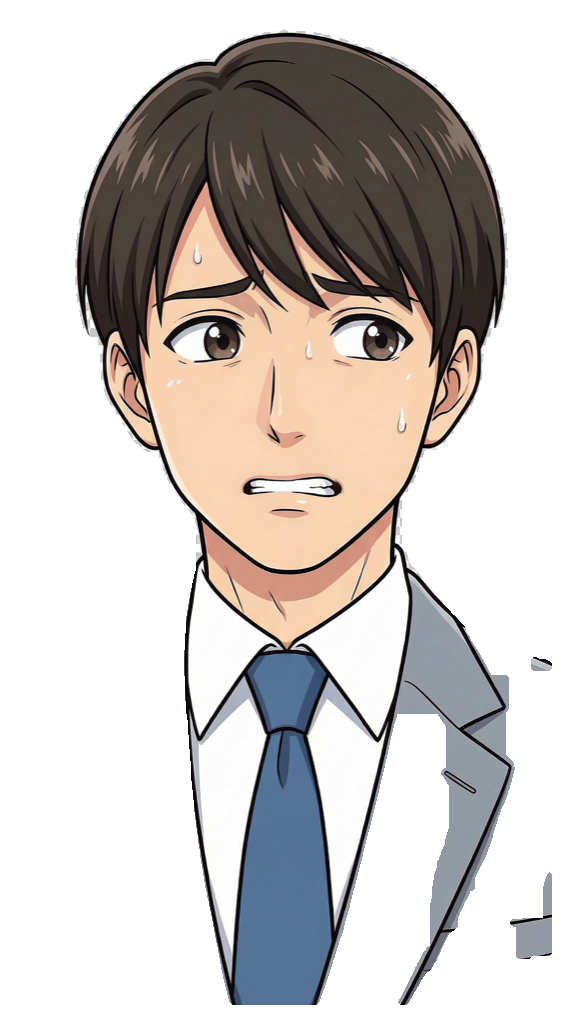
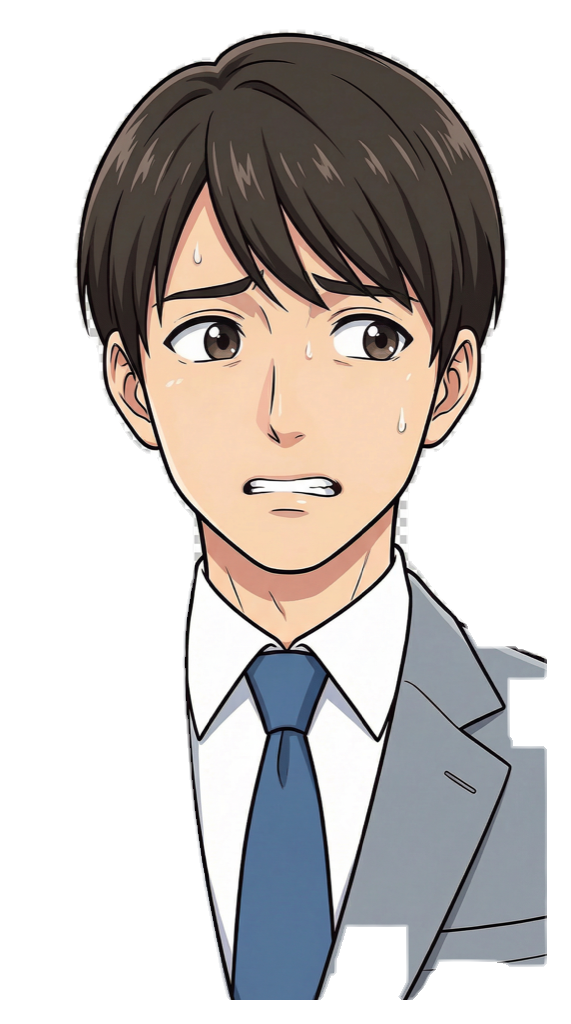
修正: ソフトアルファマスクでエッジを滑らかに（ハロ・ギザギザ解消）
バイナリマスクからガウシアンぼかし+穴埋め+ソフトエッジに変更

diff --git a/index.html b/index.html
@@ -2989,7 +2989,7 @@ var NovelEngine = {
         var src = folder + line.speaker + '_' + line.expr + '.png';
         if (!self._imageCache[src]) {
           var img = new Image();
-          img.src = src + '?v=7';
+          img.src = src + '?v=8';
           self._imageCache[src] = img;
         }
       }
@@ -3076,7 +3076,7 @@ var NovelEngine = {
     var info = this.SPEAKERS[line.speaker];
     if (!info) return;
     var folder = (line.speaker === 'bousai') ? 'characters/shared/' : 'characters/stage' + (GAME.stageNum || 1) + '/';
-    var src = folder + line.speaker + '_' + (line.expr || 'normal') + '.png?v=7';
+    var src = folder + line.speaker + '_' + (line.expr || 'normal') + '.png?v=8';
 
     if (info.pos === 'left') {
       this.charaLeft.style.backgroundImage = 'url(' + src + ')';
